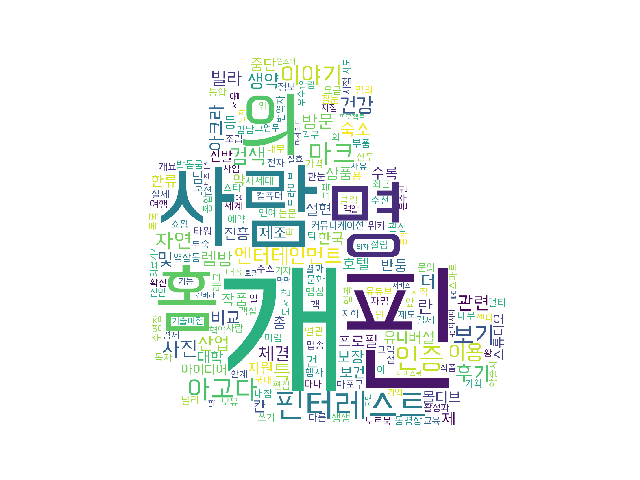
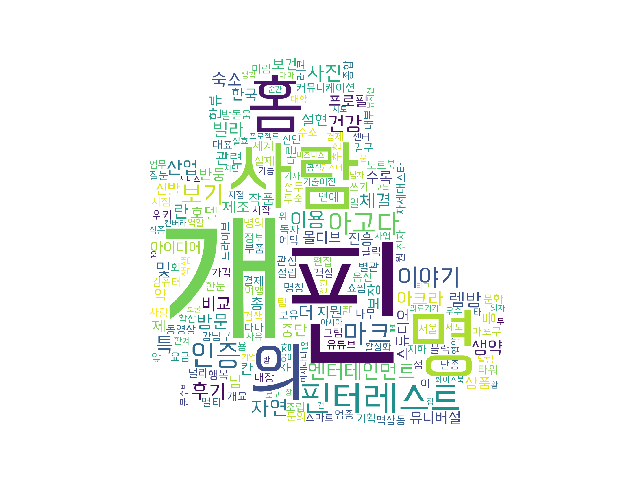
telegrambot

Changed region(s): [[0.2188, 0.125, 0.7812, 0.9062]]

diff --git a/unixlinux/wordcloud/tele.py b/unixlinux/wordcloud/tele.py
@@ -2,15 +2,21 @@
 import telegram
 from telegram.ext import Updater, MessageHandler, Filters, CommandHandler
 import WC
+import os
 
 token = "REMOVED_TELEGRAM_TOKEN"
 bot = telegram.Bot(token = token)
 #def get_message(bot, update):
 #    update.message.reply_text(update.message.text)
 def get_wordcloud(bot, update):
+    #update.message.reply_text(update.message.text)
+    file_path =os.path.dirname(os.path.abspath(__file__))+"\\wcimg\\"+update.message.text+".png"
     WC.wcClass(update.message.text).main()
-    bot.send_photo(chat_id=update.message.chat_id, photo=open("./wcimg/"+update.message.text+".png"))
-    #update.message.reply_photo(photo=open("./wcimg/"+update.message.text+".png"))
+#    f = open(file_path)
+#    print(f, file_path)
+    bot.send_photo(chat_id=update.message.chat_id, photo=open(".\\wcimg\\"+update.message.text+".png","rb"))
+    update.message.reply_text(update.message.text)
+    #update.message.reply_photo(photo=open(pf))
 def get_whatyourname(bot, update):
     update.message.reply_text("HeonJin Jeong")
 updater = Updater(token)
@@ -20,5 +26,5 @@ messagehandler = MessageHandler(Filters.text, get_wordcloud)
 updater.dispatcher.add_handler(messagehandler)
 commanderhandler = CommandHandler("name", get_whatyourname)
 updater.dispatcher.add_handler(commanderhandler)
-updater.start_polling(timeout=10, clean=True)
+updater.start_polling(timeout=10,  clean=True)
 updater.idle()

diff --git a/unixlinux/wordcloud/WC.py b/unixlinux/wordcloud/WC.py
@@ -66,7 +66,7 @@ class wcClass:
         fig = plt.gcf()
         fig.savefig("./wcimg/"+self.query+".png")
         if debug:
-            "./wcimg/"+self.query+".png"
+            print("./wcimg/"+self.query+".png")
         return "./wcimg/"+self.query+".png"
 
     def main(self):

diff --git a/unixlinux/wordcloud/test.py b/unixlinux/wordcloud/test.py
@@ -1,3 +1,4 @@
+'''
 import os
 from selenium import webdriver
 
@@ -10,3 +11,4 @@ elems = wd.find_element_by_xpath("//img[@src]")
 print(elems.text)
 for elem in elems:
     print(elem.text)
+'''
